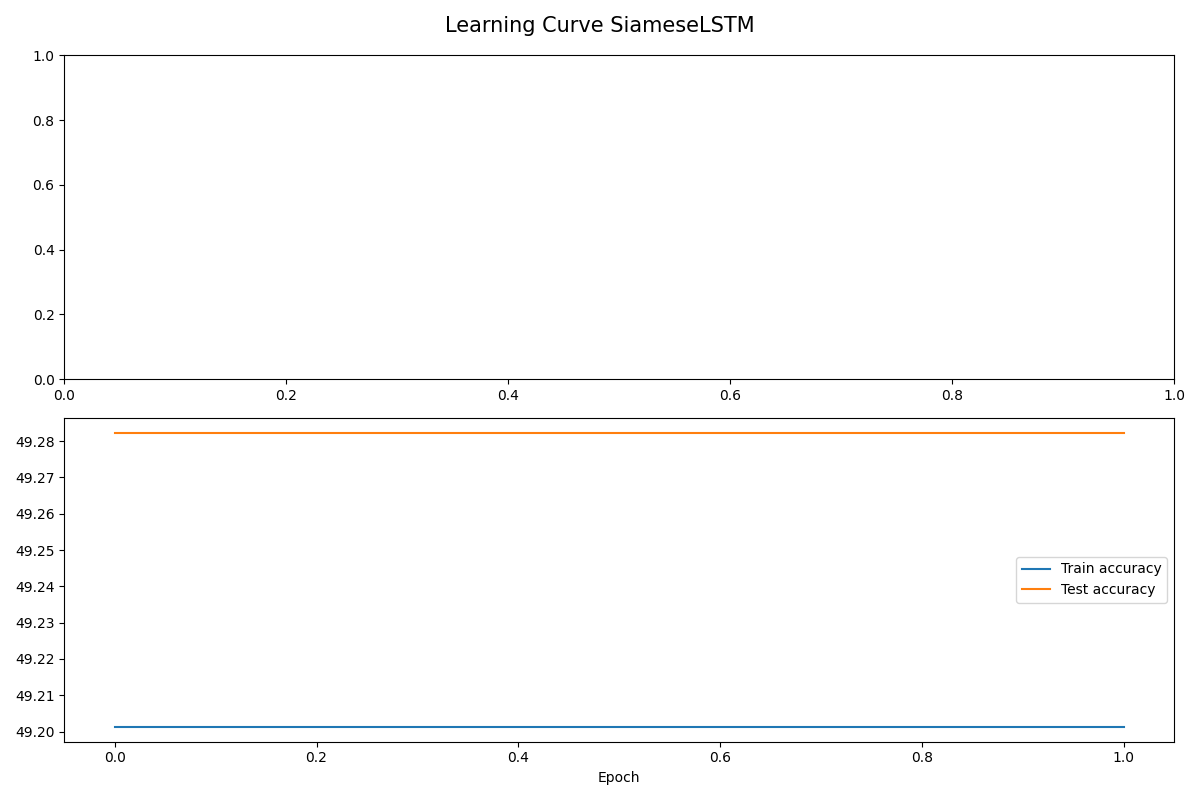
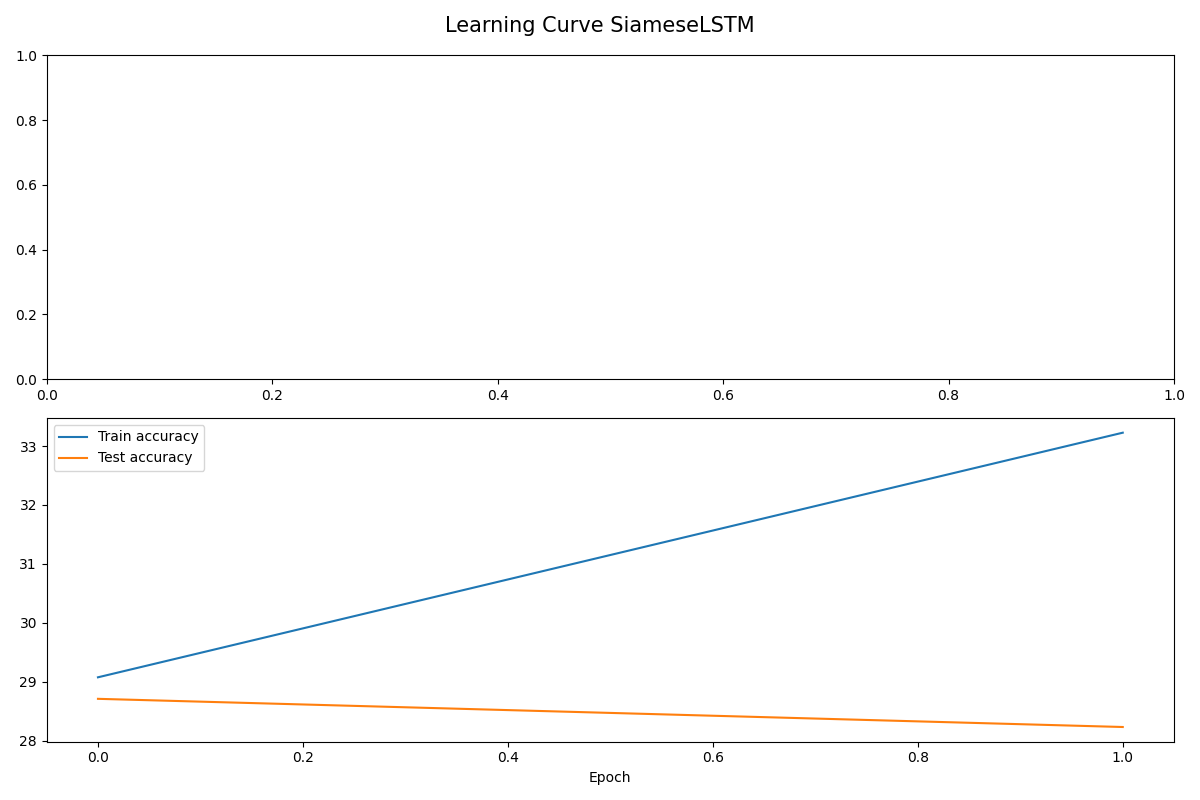
update

diff --git a/SW/size/test_accu.py b/SW/size/test_accu.py
@@ -22,7 +22,8 @@ def test_model():
     # Process data
     X, X_reg, y, y_reg = get_training_processed_data(df_input_all, target_prices, rebalance_freq, input_period, input_period_weeks, training_window)
     train_indices, test_indices, _, _ = train_test_split(range(len(y)), y, stratify=y, test_size=0.4, random_state=1)
-    X_train, X_train_reg, y_train, y_train_reg, X_test, y_test = X[train_indices], X_reg[train_indices], y[train_indices], y_reg[train_indices], X[test_indices], y[test_indices]
+    X_train, X_train_reg, y_train, y_train_reg, X_test, X_test_reg, y_test = X[train_indices], X_reg[train_indices], y[train_indices], y_reg[train_indices], X[test_indices], X_reg[test_indices], y[test_indices]
+
     X_mean = X_train.mean(dim=[0, 1, 2], keepdim=True)
     X_std = X_train.std(dim=[0, 1, 2], keepdim=True)
     X_train = X_train.sub_(X_mean).div_(X_std)
@@ -60,7 +61,7 @@ def test_model():
 
     weight_decay = 1e-5
     dropout = 0.
-    nb_epochs = 200
+    nb_epochs = 2
     batch_size = 10
     verbose = 2
     gamma = 0.3
@@ -94,9 +95,9 @@ def test_model():
         train(model, X_train, y_train, nb_epochs=nb_epochs, device=device, X_test=X_test, y_test=y_test, batch_size=batch_size, eta=eta, 
             weight_decay=weight_decay, verbose=verbose, classification=True)
 
-    print(f'Accuracy on train set : {output_to_accu(model, X_train, y_train):.2f} %')
-    print(f'Accuracy on test set : {output_to_accu(model, X_test, y_test):.2f} %')
-    plot_cm(model, X_test, y_test, target_prices)
+    print(f'Accuracy on train set : {output_to_accu(model, X_train, X_train_reg, y_train):.2f} %')
+    print(f'Accuracy on test set : {output_to_accu(model, X_test, X_test_reg, y_test):.2f} %')
+    plot_cm(model, X_test, X_test_reg, y_test, target_prices)
 
 
 if __name__ == "__main__":

diff --git a/SW/size/helpers.py b/SW/size/helpers.py
@@ -9,10 +9,10 @@ from train_test import test
 from sklearn.metrics import ConfusionMatrixDisplay
 
 
-def plot_cm(model, X_test, y_test, price):
+def plot_cm(model, X_test, X_test_reg, y_test, price):
     model.eval()
-    output = test(model, X_test)
-    df_prob = pd.DataFrame(data=output.reshape(len(output), 2))
+    output = test(model, X_test, X_test_reg)
+    df_prob = pd.DataFrame(data=output.reshape(len(output), 3))
     df_pred = prob_to_pred_2(df_prob)
 
     ConfusionMatrixDisplay.from_predictions(y_test.cpu().detach().numpy().argmax(axis=1), 

diff --git a/SW/size/train_test.py b/SW/size/train_test.py
@@ -197,12 +197,12 @@ def train_siamese(model, X_train, X_train_reg, y_train, y_train_reg, nb_epochs, 
         plt.show()
 
 
-def test(model, X_test):
+def test(model, X_test, X_test_reg):
     
     prob = []
     model.eval()
     for k in range(0, X_test.size(0)):
-        output, _ = model(X_test.narrow(0, k, 1))
+        output, _ = model(X_test.narrow(0, k, 1), X_test_reg.narrow(0, k, 1))
         prob.append(output.cpu().detach().numpy())
 
     return np.array(prob)
